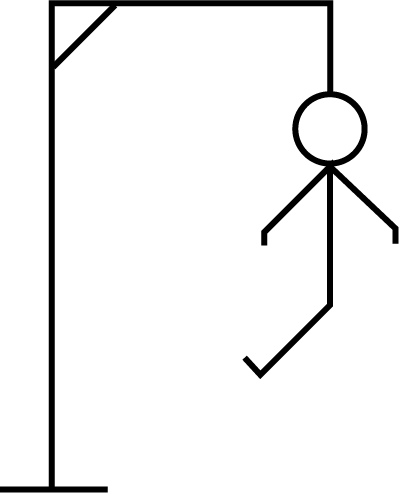
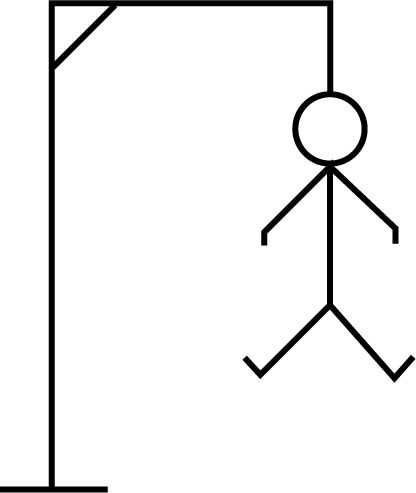
Update

Changed region(s): [[0.5714, 0.0, 1.0, 0.7911], [0.0902, 0.0, 0.3008, 1.0], [0.2406, 0.9736, 0.2707, 1.0]]

diff --git a/index.html b/index.html
@@ -16,7 +16,7 @@
         <h1 id='typeWriter' class='typing'></h1>
         <div>Wrong guesses: <span id='mistakes'>0</span> of <span id='maxAnswers'></span></div>
 
-        <img id='hangman' src='assets/hangman0.png' alt='hangman game' />
+        <img id='hangman' src='assets/hangman.png' alt='hangman game' />
 
         <p>Guess the word :</p>
         <p id='word'></p>

diff --git a/scripts/script.js b/scripts/script.js
@@ -24,7 +24,7 @@ let words = [
 
 //Variables-----------------------------------------------------------------------------------------------
 let answer = '';
-let maxAnswers = 8;
+let maxAnswers = 7;
 let mistakes = 0;
 let guessed = [];
 

diff --git a/style/style.scss b/style/style.scss
@@ -54,6 +54,10 @@ img
     border: none;
     font-size: 1.4em;
     text-transform: capitalize;
+    &:hover {
+        border: 1px solid #3f3f4e;
+        border-radius: 10px;
+    }
 }
 
 #keyboard

diff --git a/style/style.css b/style/style.css
@@ -51,6 +51,11 @@ img {
   text-transform: capitalize;
 }
 
+.letter-btn:hover {
+  border: 1px solid #3f3f4e;
+  border-radius: 10px;
+}
+
 #keyboard {
   width: 40%;
   display: -webkit-box;
